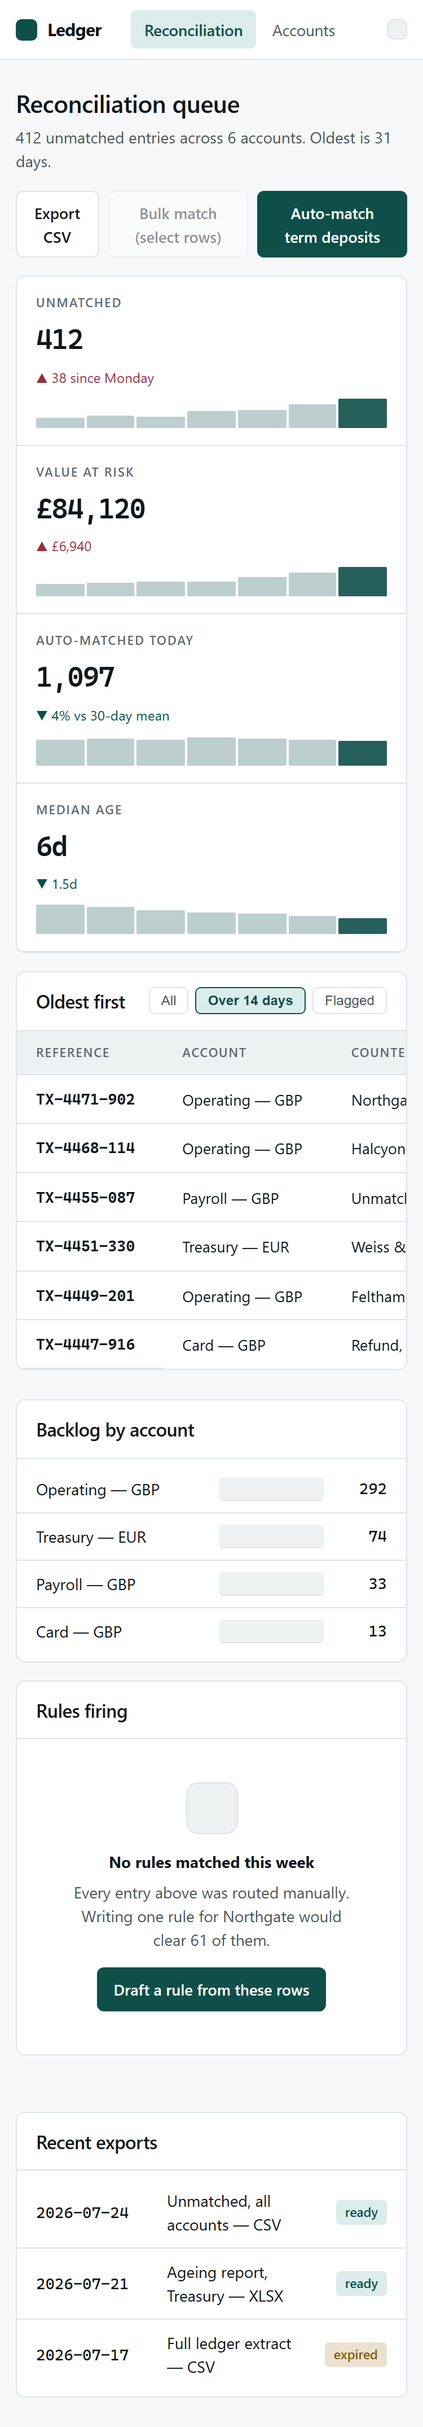
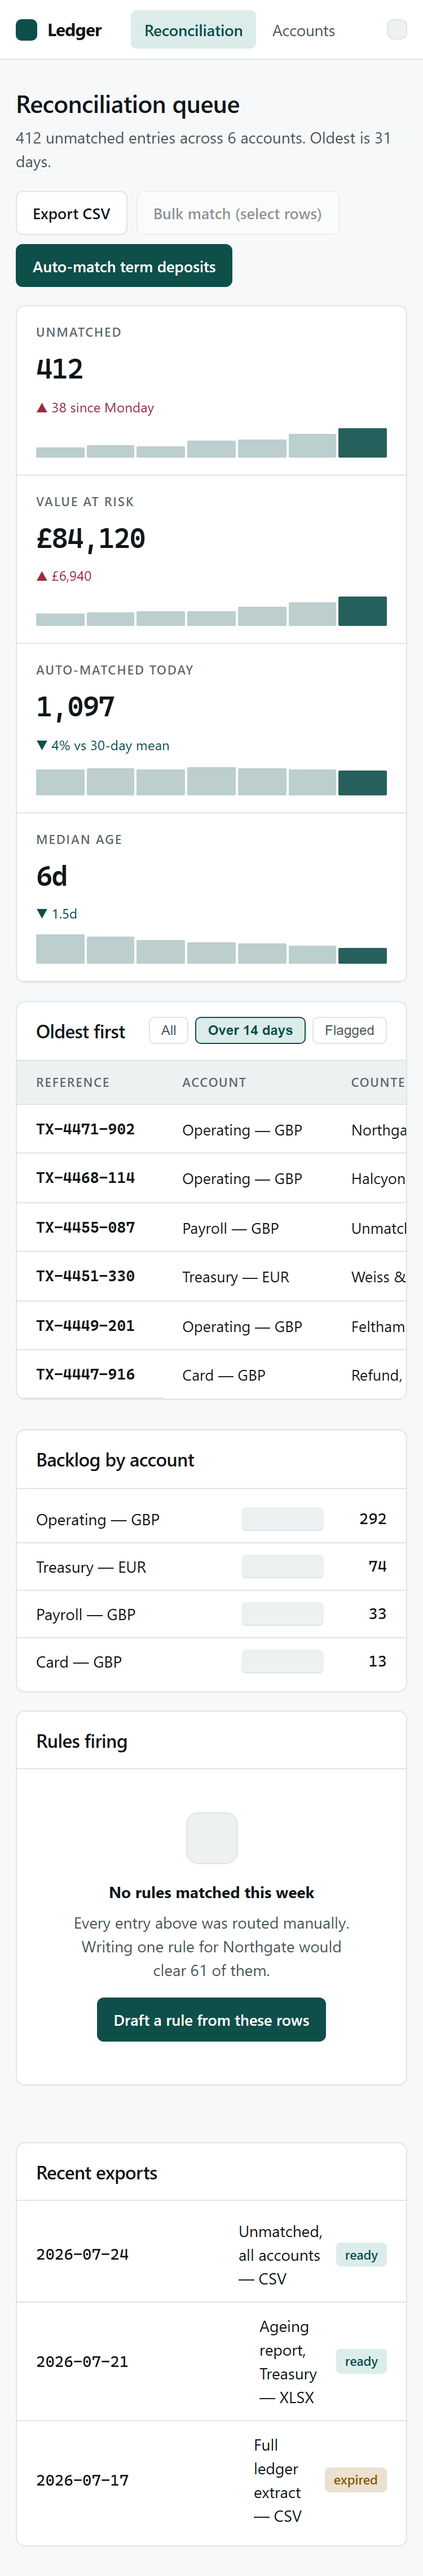
fix dashboard overflow at 375px on Linux
Three action buttons sat in a non-wrapping flex row. They fit under the
Windows system font and overflowed by 10px under the Linux one, so the
local run passed and CI failed. The backlog rows had the same weakness.

Caught by CI running the same verify script on a different platform.

diff --git a/benchmarks/03-dashboard/index.html b/benchmarks/03-dashboard/index.html
@@ -56,7 +56,9 @@ a{color:inherit}
 /* header row */
 .head{display:flex;align-items:flex-end;gap:16px;flex-wrap:wrap;padding:22px 0 16px}
 .head p{color:var(--ink-2);margin-top:4px}
-.act{margin-left:auto;display:flex;gap:8px}
+/* Must wrap: three fixed-width buttons in one row overflow 375px once the
+   platform font is wider than the one used during development. */
+.act{margin-left:auto;display:flex;gap:8px;flex-wrap:wrap}
 .b{font:inherit;font-size:.85rem;font-weight:500;padding:8px 14px;border-radius:6px;cursor:pointer;
   border:1px solid var(--line);background:var(--surface);color:var(--ink);
   transition:transform .12s,background .15s,border-color .15s}
@@ -106,7 +108,9 @@ td.r{text-align:right;font-family:var(--mono);font-variant-numeric:tabular-nums}
 .two{display:grid;grid-template-columns:1.6fr 1fr;gap:16px;padding-bottom:34px}
 @media(max-width:900px){.two{grid-template-columns:1fr}}
 .list{padding:6px 0}
-.list div{display:flex;gap:12px;align-items:center;padding:10px 17px;border-bottom:1px solid var(--line)}
+.list div{display:flex;gap:12px;align-items:center;padding:10px 17px;border-bottom:1px solid var(--line);
+  flex-wrap:wrap}
+.list div>span:first-child{min-width:0;flex:1 1 130px}
 .list div:last-child{border-bottom:0}
 .bar{flex:1;height:7px;background:var(--surface-2);border-radius:4px;overflow:hidden}
 .bar i{display:block;height:100%;background:var(--teal)}

diff --git a/benchmarks/README.md b/benchmarks/README.md
@@ -99,3 +99,12 @@ Seven real defects across five sites. All of them ship if the process stops at "
 - Lighthouse runs against a local static server, so performance scores reflect the pages, not a
   production network. The accessibility, best-practices and SEO scores are the meaningful ones here.
 - The rubric scores are one reviewer's judgement. The automated columns are not.
+
+## Cross-platform note
+
+The dashboard passed on Windows and failed in CI on Linux with a **+10px horizontal overflow at
+375px**: three action buttons in a non-wrapping flex row, which fit under the Windows system font and
+did not under the Linux one. Fixed by allowing the row to wrap.
+
+This is why CI runs the same script on a different platform. A layout that depends on the width of
+the developer's system font is not responsive — it is lucky.
